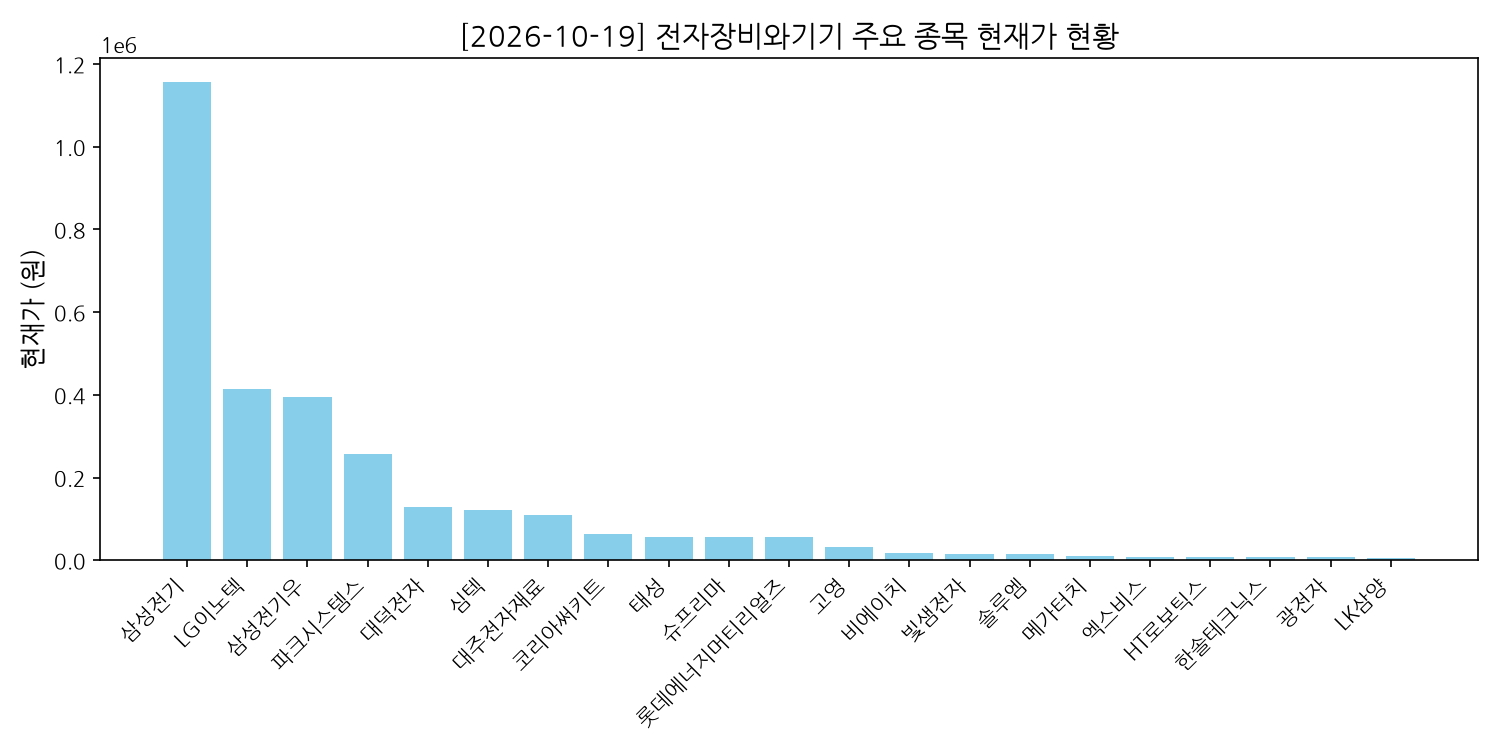
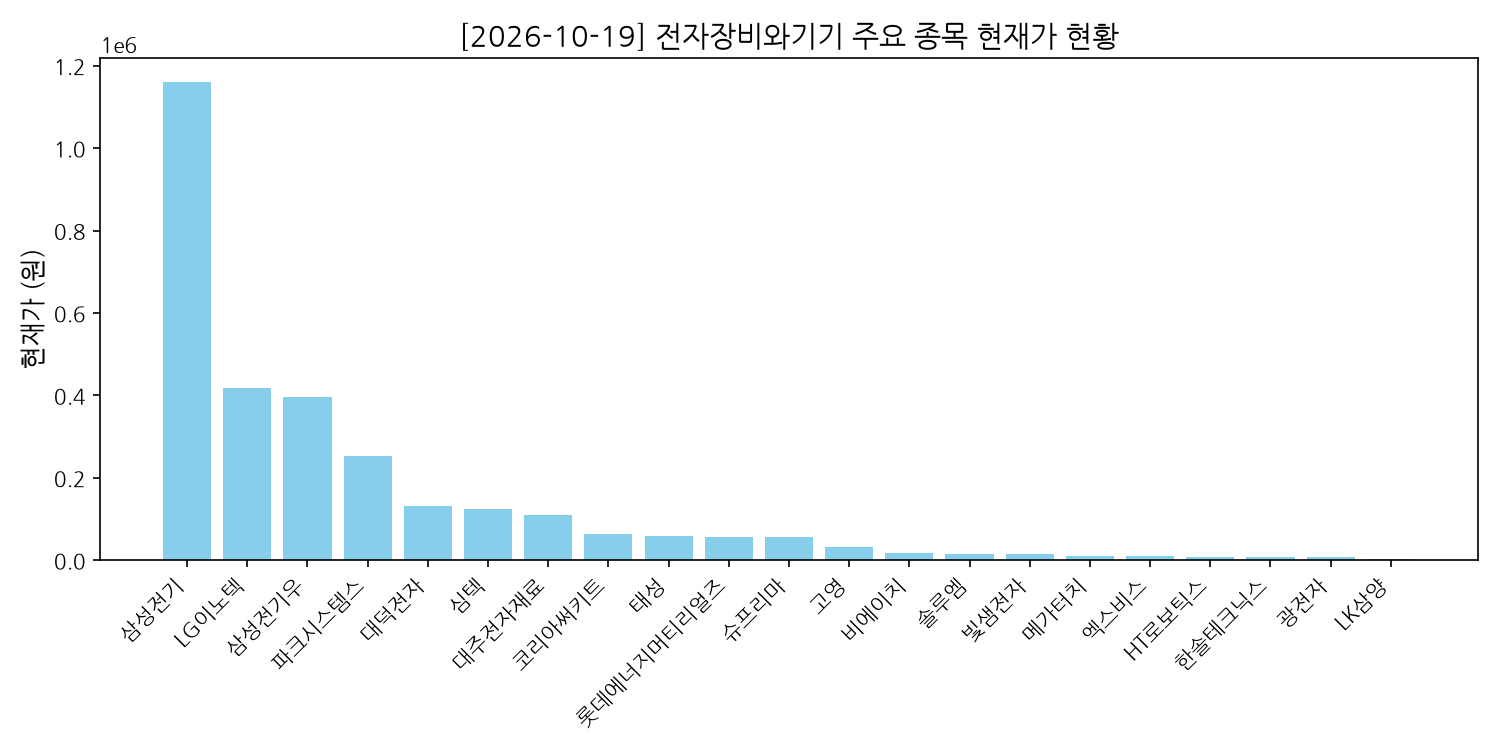
Auto-generate daily report and charts: 2026-10-19

diff --git a/reports/report_2026-10-19.md b/reports/report_2026-10-19.md
@@ -1,40 +1,44 @@
-# [2026-10-19] 전자장비와기기 업종 일일 분석 보고서
+# [2026-10-19] 전자장비와기기 업종 일일 대시보드 보고서
 
-수집된 종목 수: **21개**
+> 수집된 총 종목 수: **21개** | 데이터 기준일: **2026-10-19**
 
-## 📊 종목별 요약 테이블
+---
 
-| 종목명        | 종목코드   |        현재가(종가) |   등락률(%) |        거래량 |
-|:-----------|:-------|---------------:|---------:|-----------:|
-| 삼성전기       | 009150 |      1.156e+06 |    -2.69 |    894,873 |
-| LG이노텍      | 011070 | 414000         |     1.85 |    153,606 |
-| HT로보틱스     | 396300 |   9000         |    -0.11 | 11,933,641 |
-| 대덕전자       | 353200 | 129600         |    -1.59 |    548,111 |
-| 심텍         | 222800 | 122400         |    -3.32 |    675,544 |
-| 롯데에너지머티리얼즈 | 020150 |  56000         |    13.36 |    900,955 |
-| 고영         | 098460 |  31450         |    -4.12 |    650,346 |
-| 코리아써키트     | 007810 |  62700         |    -3.24 |    422,840 |
-| 메가터치       | 446540 |   9830         |     4.02 |    551,996 |
-| 비에이치       | 090460 |  17650         |     1.85 |    517,556 |
-| 슈프리마       | 236200 |  56150         |     0.27 |     11,292 |
-| 태성         | 323280 |  57500         |     8.7  |    837,130 |
-| 한솔테크닉스     | 004710 |   8610         |    -3.26 |    429,738 |
-| 광전자        | 017900 |   8120         |    -1.22 |    409,690 |
-| 대주전자재료     | 078600 | 109200         |     5.81 |    594,875 |
-| 솔루엠        | 248070 |  14730         |     4.99 |    285,554 |
-| 엑스비스       | 0011A0 |   9100         |     3.76 |     90,438 |
-| 삼성전기우      | 009155 | 396000         |    -3.18 |     11,445 |
-| 빛샘전자       | 072950 |  15090         |    -0.2  |    531,066 |
-| LK삼양       | 225190 |   4385         |    15.39 |  1,280,043 |
-| 파크시스템스     | 140860 | 256000         |    -1.73 |      9,603 |
-
-## 📈 시각화 차트 목록
+## 📊 대시보드 시각화 요약
 
 ### 1. 전체 종목 현재가 현황
 ![일일 차트](./chart_2026-10-19.png)
 
-### 2. 상하위 집중 비교 차트 (Top / Bottom)
+### 2. 상하위 집중 비교 분석 (Top / Bottom)
 ![상하위 비교 차트](./top_bottom_chart_2026-10-19.png)
 
 ### 3. 종목별 규모 비중 (트리맵)
 ![트리맵 차트](./treemap_2026-10-19.png)
+
+---
+
+## 📋 상세 종목 데이터 테이블
+
+| 종목명        | 종목코드   |       현재가(종가) |   등락률(%) |        거래량 |
+|:-----------|:-------|--------------:|---------:|-----------:|
+| 삼성전기       | 009150 |      1.16e+06 |    -2.36 |  1,086,941 |
+| LG이노텍      | 011070 | 419000        |     3.08 |    206,404 |
+| HT로보틱스     | 396300 |   9080        |     0.78 | 15,803,113 |
+| 대덕전자       | 353200 | 131500        |    -0.15 |    715,419 |
+| 심텍         | 222800 | 124000        |    -2.05 |    920,643 |
+| 롯데에너지머티리얼즈 | 020150 |  57400        |    16.19 |  1,168,574 |
+| 고영         | 098460 |  31950        |    -2.59 |    858,613 |
+| 코리아써키트     | 007810 |  63300        |    -2.31 |    510,322 |
+| 메가터치       | 446540 |   9490        |     0.42 |    658,254 |
+| 비에이치       | 090460 |  18140        |     4.67 |    698,278 |
+| 슈프리마       | 236200 |  56200        |     0.36 |     14,952 |
+| 태성         | 323280 |  58400        |    10.4  |    928,200 |
+| 한솔테크닉스     | 004710 |   8790        |    -1.24 |    608,211 |
+| 광전자        | 017900 |   8140        |    -0.97 |    510,250 |
+| 대주전자재료     | 078600 | 111100        |     7.66 |    681,884 |
+| 솔루엠        | 248070 |  15280        |     8.91 |    442,846 |
+| 엑스비스       | 0011A0 |   9280        |     5.82 |    110,940 |
+| 삼성전기우      | 009155 | 397000        |    -2.93 |     16,039 |
+| 빛샘전자       | 072950 |  15140        |     0.13 |    694,524 |
+| LK삼양       | 225190 |   4290        |    12.89 |  1,383,009 |
+| 파크시스템스     | 140860 | 252500        |    -3.07 |     12,447 |
